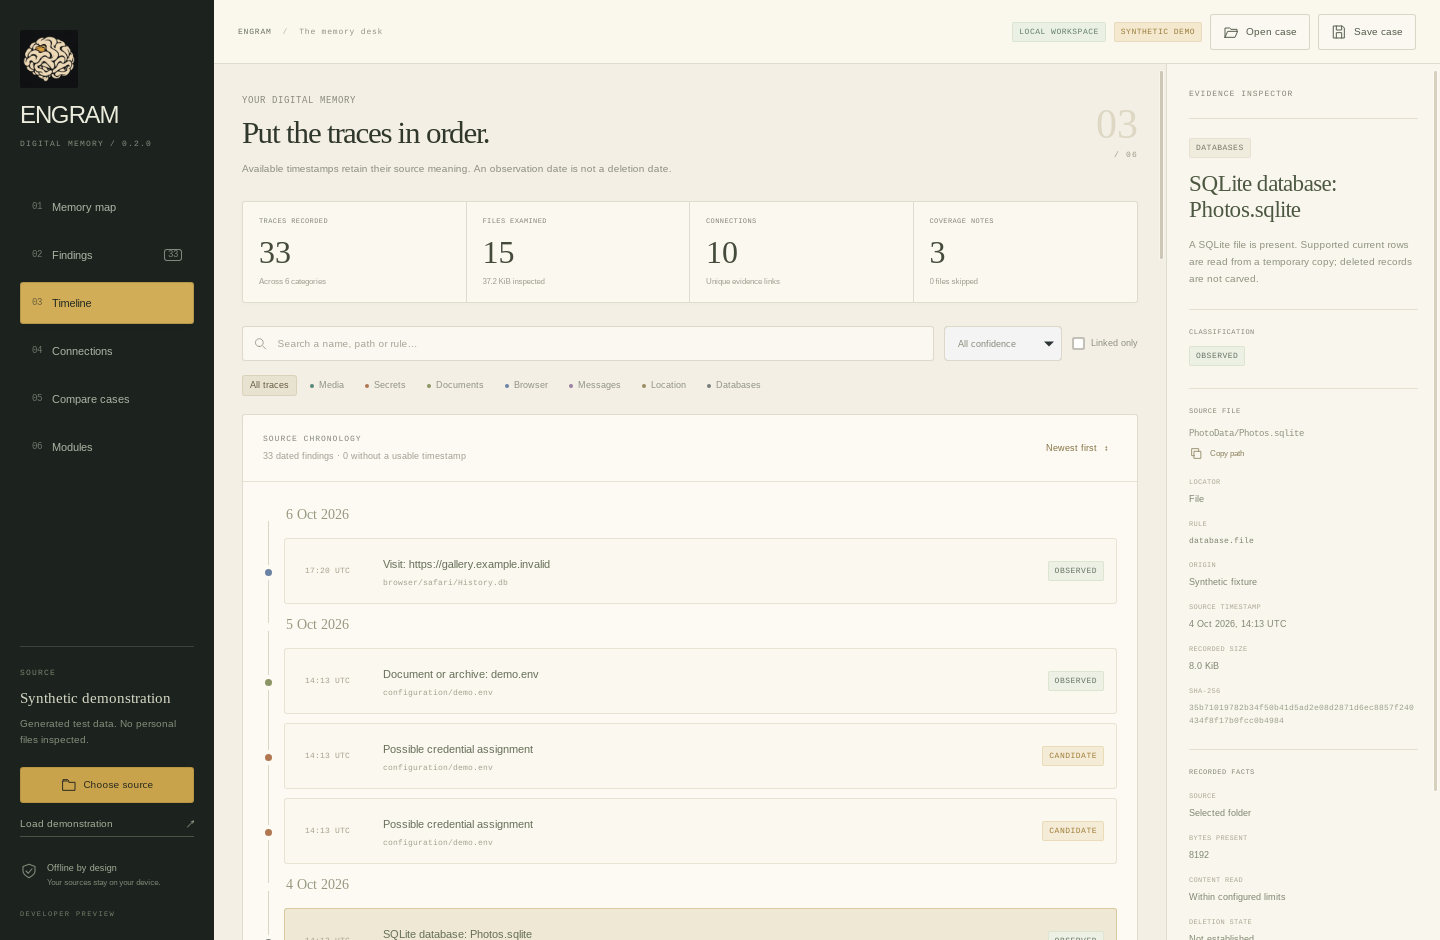
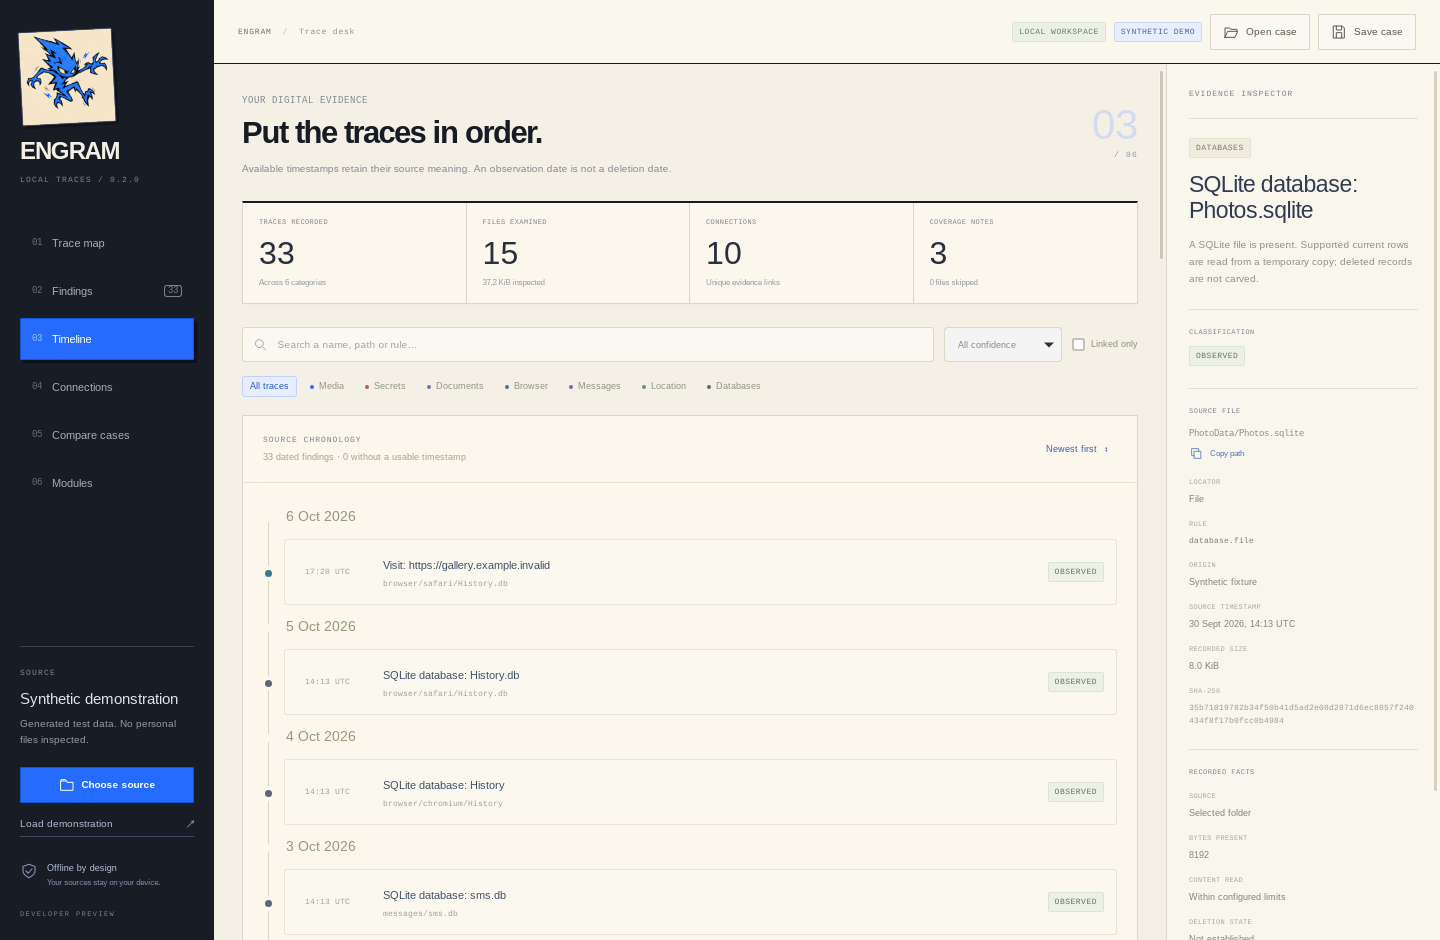
docs: replace captures with the verified cobalt trace desk [skip ci]

diff --git a/assets/screenshots/README.md b/assets/screenshots/README.md
@@ -1,15 +1,15 @@
 # Native application captures
 
-These unedited PNGs were captured from the actual ENGRAM 0.2 Tauri executable on Linux. The React/TypeScript interface runs inside the native WebKit window. Xvfb provides the display and WebKit uses its software-rendering fallback.
+These unedited PNGs were captured from the actual ENGRAM 0.2 preview.2 Tauri executable on Linux, with the cobalt character and Trace desk identity. The React/TypeScript interface runs inside the native WebKit window. Xvfb provides the display and WebKit uses its software-rendering fallback.
 
 The case is generated from synthetic fixture files and processed by the shared analysis engine. No personal directories or real phone backups were inspected. This sample records 33 findings from 15 files, with 10 recorded relationships.
 
-Source: [a663762a](https://github.com/Forem0/ENGRAM/commit/a663762a283aa5ed578c0f1f0003c49b35ad158c).
-Capture: [successful native Tauri/IPC CI run](https://github.com/Forem0/ENGRAM/actions/runs/40575727550).
+Source: [9709cd8](https://github.com/Forem0/ENGRAM/commit/9709cd8f7e7b453da952eef9eba5d4d7f225922a).
+Capture: [successful native Tauri/IPC CI run](https://github.com/Forem0/ENGRAM/actions/runs/40585483665).
 
 Each launch uses `--demo --view VIEW --smoke-test`. The renderer loads a case through the native Rust command bridge and signals readiness after rendering. CI captures the visible native window before the guarded smoke process exits. The captures are 1440 × 940 pixels.
 
-- `workspace.png`: memory map and source evidence inspector.
+- `workspace.png`: Trace map and source evidence inspector.
 - `findings.png`: searchable evidence index.
 - `timeline.png`: source chronology with explicit timestamp limitations.
 - `connections.png`: recorded relationships between findings.
@@ -17,10 +17,10 @@ Each launch uses `--demo --view VIEW --smoke-test`. The renderer loads a case th
 SHA-256:
 
 ```text
-40fb5b5012ee995e93d71555f23040401235b4499d49ab4635465d8deaaf42a8  workspace.png
-53ecf22837a2ca603d2d76cb8d55ddda1a1ed31b08190ca23082920eb3a5c017  findings.png
-45b459652d0bc323a3c685987d9c352f2373b279995b5e2544ed68694853e7f1  timeline.png
-3e37cfbd9531ddfacb8806629d1c547f6962edadb445fa0aa0b7d01220fcefa4  connections.png
+80b80572ea1a14d01cb56bba08aa9a4d30fd071dcbdbbec79fac8ba9d89df817  workspace.png
+9ad9503eba7463a57ca3aa15edae8fd483334408e904839cf5bb079417956ea6  findings.png
+2726a27a2cae52d9a136dfc65d50e80b358c6fae3a9e34eff555dcccc90c6e28  timeline.png
+ca52260337388ea15af44679573e535010df1c06f41e75540dde3d89b4f36da6  connections.png
 ```
 
-The earlier egui captures remain available in the [0.1 release source](https://github.com/Forem0/ENGRAM/tree/v0.1.0-preview.1/assets/screenshots).
+Earlier captures remain available in the [preview.1 release source](https://github.com/Forem0/ENGRAM/tree/v0.2.0-preview.1/assets/screenshots); the [0.1 release source](https://github.com/Forem0/ENGRAM/tree/v0.1.0-preview.1/assets/screenshots) retains the historical egui interface.
